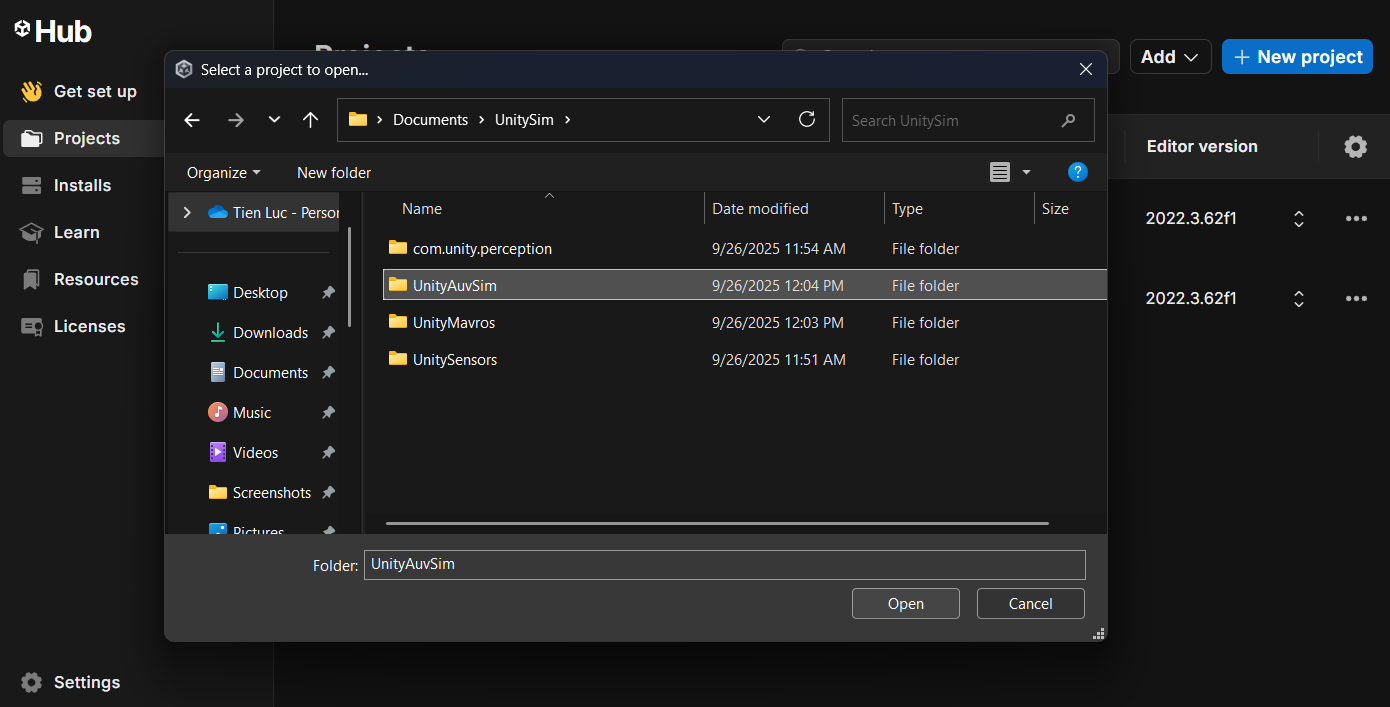
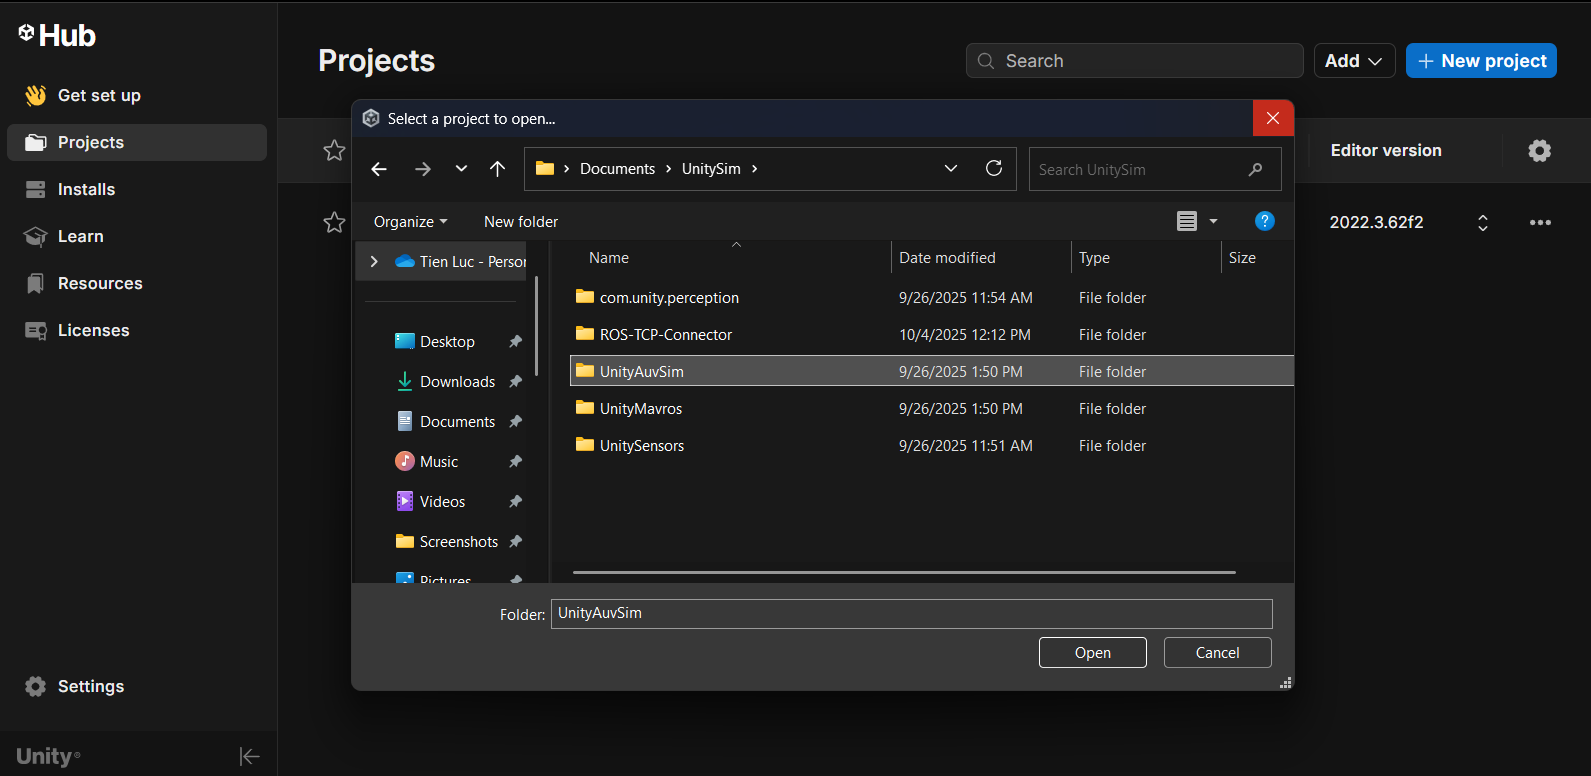
Minor docs update

diff --git a/docs/install_as_developer.md b/docs/install_as_developer.md
@@ -63,7 +63,7 @@ After cloning all of them, please open the Unity Hub application, click on "Add"
 
 ![](images/opening_the_project.png)
 
-UnityHub will prompt you to install `Editor version 2022.3.62f1`. Please accept and install this version as it is a Long-Term Support (LTS) version. If you already have this version installed, you can skip this step.
+UnityHub will prompt you to install `Editor version 2022.3.62f2`. Please accept and install this version as it is a Long-Term Support (LTS) version. If you already have this version installed, you can skip this step.
 
 Upon opening the project for the first time, Unity will take some time to import all the assets and compile the scripts. Please be patient as this may take a few minutes. A lot of warnings may appear in the console, but you can safely press the "Clear" button to clear them all.
 